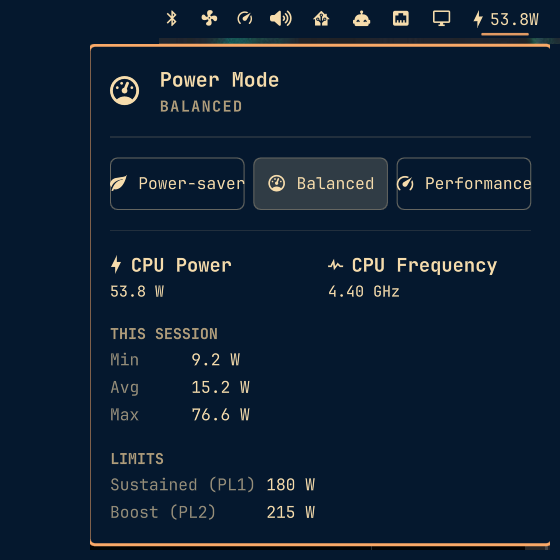
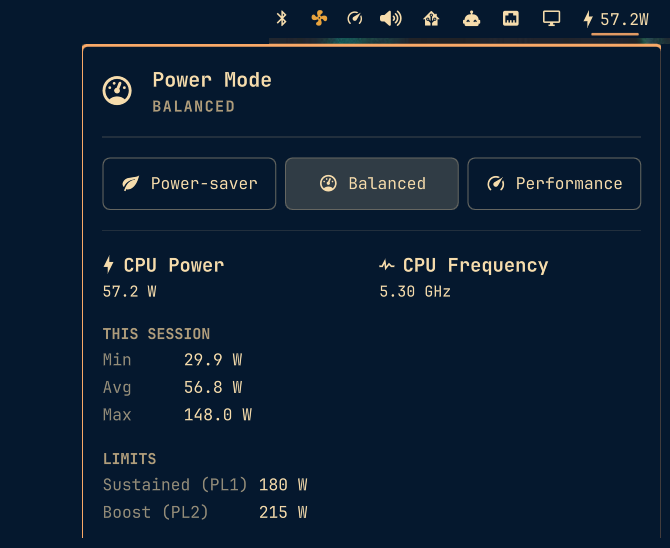
Widen popup so all profile buttons get equal padding
Power-saver and Performance are longer labels than Balanced, so at the
old content width their button text sat almost flush against the
border while Balanced (shorter) had comfortable margins. Widening the
popup gives every button's fixed-width cell enough room to match.

Changed region(s): [[0.1214, 0.0, 1.0, 0.9927]]

diff --git a/Panel.qml b/Panel.qml
@@ -265,7 +265,7 @@ Panel {
     bar: root.bar
     open: root.opened
     focusTarget: keyCatcher
-    contentWidth: panel.fittedContentWidth(Style.space(320))
+    contentWidth: panel.fittedContentWidth(Style.space(400))
     contentHeight: panel.fittedContentHeight(column.implicitHeight)
 
     PanelKeyCatcher {
